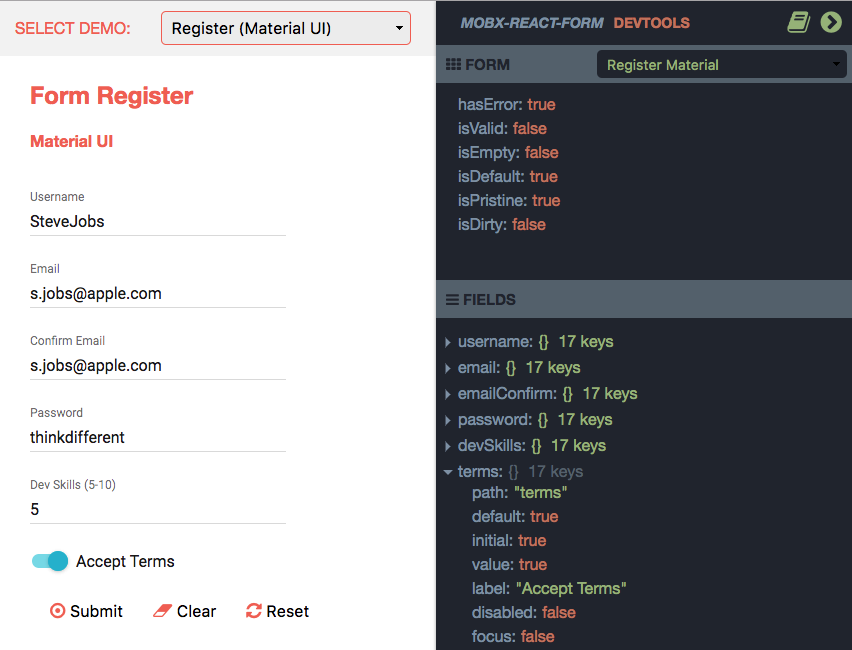
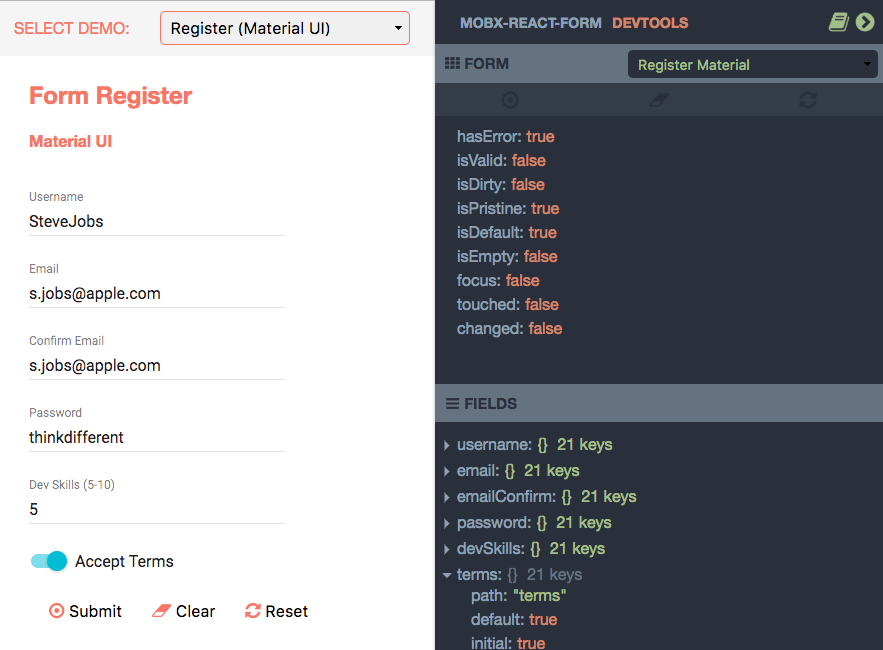
fix: introduced form controls

diff --git a/src/components/RenderFormData.jsx b/src/components/RenderFormData.jsx
@@ -2,6 +2,7 @@ import React from 'react';
 import { observer } from 'mobx-react';
 import { merge } from 'glamor';
 import JSONTree from 'react-json-tree';
+import ReactTooltip from 'react-tooltip';
 
 import SelectMenu from './SelectMenu';
 
@@ -12,7 +13,8 @@ import $U from '../styles/_.utils';
 import style from '../styles/RenderFormData';
 
 export default observer(({ store, handlers }) =>
-  <div className="tree">
+  <div>
+    <ReactTooltip />
     <h4 className={merge(style.heading, $U.clearfix)}>
       <div className={$U.left}>
         <Icons.FaTh className={style.icon} /> Form
@@ -21,6 +23,17 @@ export default observer(({ store, handlers }) =>
         <SelectMenu store={store} handlers={handlers} />
       </div>
     </h4>
+    <div className={merge($U.clearfix)}>
+      <button type="button"className={style.controls.button} onClick={handlers.handleFormOnSubmit} data-tip="SUBMIT">
+        <Icons.FaDotCircleO className={style.controls.icon} />
+      </button>
+      <button type="button"className={style.controls.button} onClick={handlers.handleFormOnClear} data-tip="CLEAR">
+        <Icons.FaEraser className={style.controls.icon} />
+      </button>
+      <button type="button"className={style.controls.button} onClick={handlers.handleFormOnReset} data-tip="RESET">
+        <Icons.FaRefresh className={style.controls.icon} />
+      </button>
+    </div>
     <JSONTree
       hideRoot
       data={parseFormData(store.selected.form)}

diff --git a/src/icons.js b/src/icons.js
@@ -1,7 +1,10 @@
 import FaTh from 'react-icons/lib/fa/th';
 import FaBars from 'react-icons/lib/fa/bars';
 import FaBook from 'react-icons/lib/fa/book';
+import FaRefresh from 'react-icons/lib/fa/refresh';
+import FaEraser from 'react-icons/lib/fa/eraser';
 import FaCircleO from 'react-icons/lib/fa/circle-o';
+import FaDotCircleO from 'react-icons/lib/fa/dot-circle-o';
 import FaChevronLeft from 'react-icons/lib/fa/chevron-left';
 import FaChevronCircleRight from 'react-icons/lib/fa/chevron-circle-right';
 
@@ -9,7 +12,10 @@ export default {
   FaTh,
   FaBars,
   FaBook,
+  FaRefresh,
+  FaEraser,
   FaCircleO,
+  FaDotCircleO,
   FaChevronLeft,
   FaChevronCircleRight,
 };

diff --git a/src/components/Draggable.jsx b/src/components/Draggable.jsx
@@ -10,13 +10,13 @@ import style from '../styles/Draggable';
 export default observer(({ handlers }) => (
   <Draggable
     axis="y"
-    handle=".devtools-drag"
+    handle=".devtools-handle-drag"
     zIndex={99999999999}
     defaultPosition={{ x: 0, y: 0 }}
   >
     <div>
       <div className={style.draggable}>
-        <div className="devtools-drag" data-tip="DRAG">
+        <div className="devtools-handle-drag" data-tip="DRAG">
           <Icons.FaBars className={merge(style.icon, style.dragIcon)} />
         </div>
         <button

diff --git a/src/styles/RenderFormData.js b/src/styles/RenderFormData.js
@@ -16,4 +16,21 @@ export default {
   icon: style({
     marginTop: '-3px',
   }),
+  controls: {
+    button: style({
+      'borderRadius': 0,
+      'width': '33.333%',
+      'display': 'block',
+      'float': 'left',
+      'fontSize': '20px',
+      'padding': '3px 0 6px 0',
+      'background': theme.base01,
+      ':hover': {
+        background: theme.base03,
+      },
+    }),
+    icon: style({
+      color: theme.base00,
+    }),
+  },
 };

diff --git a/src/handlers.js b/src/handlers.js
@@ -29,4 +29,19 @@ export default $actions => ({
     $actions.selectForm(e.target.value);
   },
 
+  handleFormOnSubmit: (e) => {
+    e.preventDefault();
+    $actions.handleFormControls('submit');
+  },
+
+  handleFormOnClear: (e) => {
+    e.preventDefault();
+    $actions.handleFormControls('clear');
+  },
+
+  handleFormOnReset: (e) => {
+    e.preventDefault();
+    $actions.handleFormControls('reset');
+  },
+
 });

diff --git a/src/actions.js b/src/actions.js
@@ -33,5 +33,14 @@ export default $store => ({
     _.set($store.tools, 'heading.sub', (size > 0.11));
   }),
 
+  handleFormControls: action((type) => {
+    switch (type) {
+      case 'submit': $store.selected.form.submit(); break;
+      case 'clear': $store.selected.form.clear(); break;
+      case 'reset': $store.selected.form.reset(); break;
+      default: $store.selected.form.submit();
+    }
+  }),
+
 });
 
